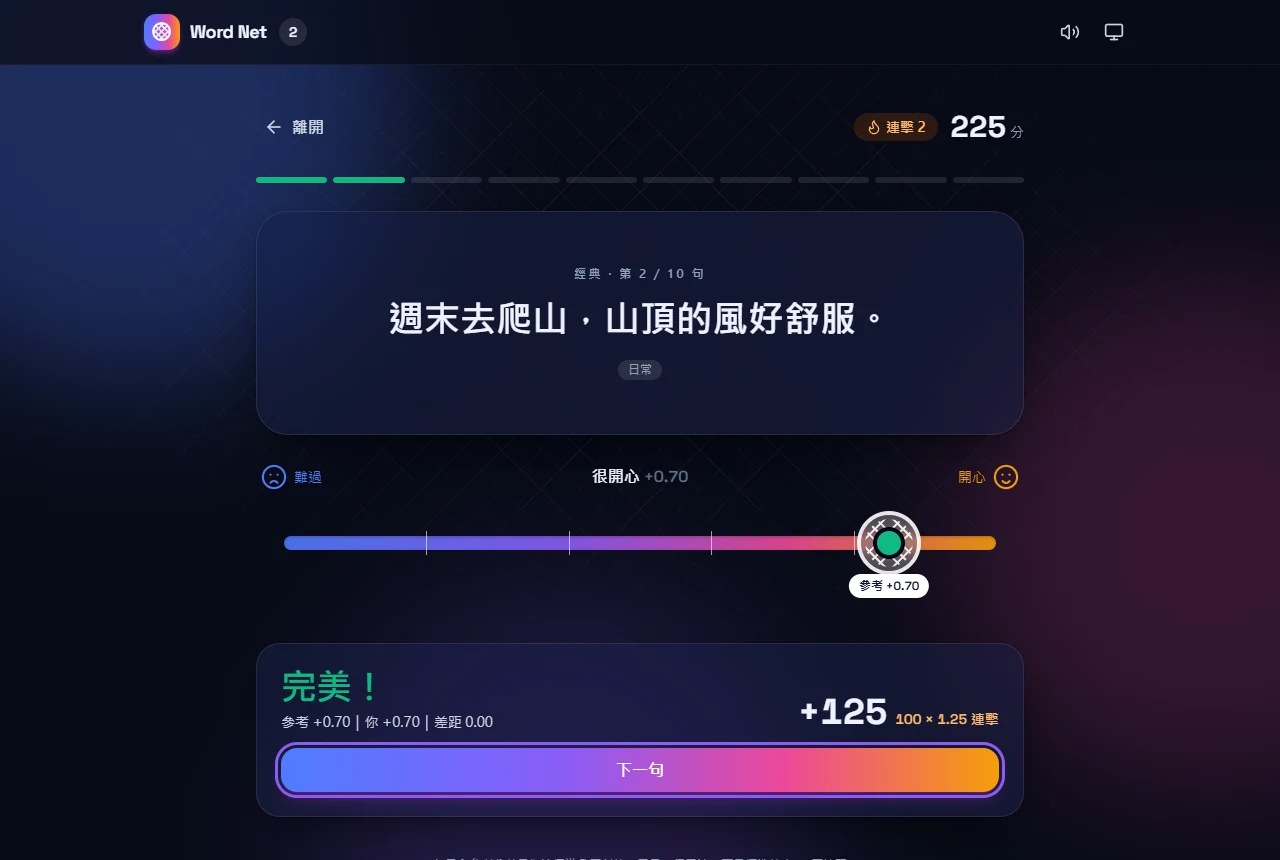
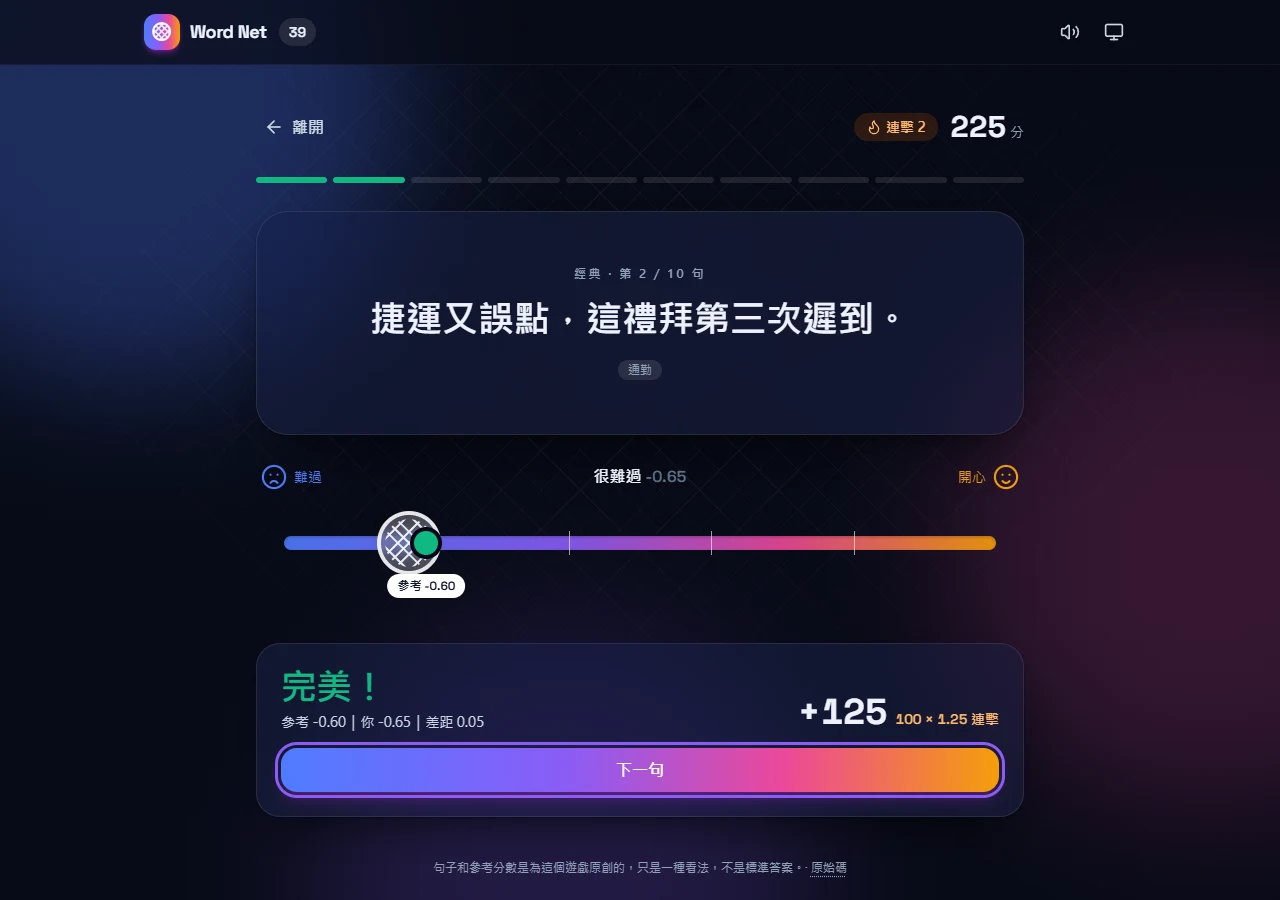
docs: refresh the README, cover and screenshots for the new game
The README now covers everything this branch added: the five ways to
play, the rank table, achievements, the result card with its emotion
map, the duo mode, the licenses, and the updated 2018 comparison
(the Google Form row now says it's gone).

New images, all of the real game in headless Edge: a 560 px GIF of the
reveal (1.3 MB; the background drift is paused while recording,
because it changes every pixel and made the first try 9 MB), fresh
desktop and phone screenshots in both themes, a duo reveal, and an
exported result card. The cover gains a row with the five modes.

diff --git a/docs/images/src/hero.html b/docs/images/src/hero.html
@@ -6,7 +6,8 @@
            --default-background-color=00000000 --virtual-time-budget=5000
            --screenshot=hero-dark.png "file:///…/hero.html#dark"
   Everything shown is from the game: the sentence and its reference score are twist-010 in
-  src/data/packs/twists.json, and +125 is a perfect guess (100) with a 2-in-a-row combo (×1.25).
+  src/data/packs/twists.json, +125 is a perfect guess (100) with a 2-in-a-row combo (×1.25), and
+  the chips are the five ways to play (MODE_INFO and the duo mode).
 -->
 <html lang="zh-Hant-TW">
 <head>
@@ -50,8 +51,10 @@
   .pill { position: absolute; right: 44px; top: 48px; font-family: Consolas, 'JetBrains Mono', monospace; font-size: 14px;
           padding: 8px 14px; border-radius: 12px; border: 1px solid var(--line); background: var(--card); box-shadow: var(--shadow); }
   .pill span { color: var(--muted); margin-right: 8px; }
+  .modes { position: absolute; left: 122px; top: 136px; display: flex; gap: 8px; font-family: 'Microsoft JhengHei', 'PingFang TC', sans-serif; }
+  .modes span { font-size: 13px; font-weight: 700; padding: 3px 11px; border-radius: 99px; border: 1px solid var(--line); background: var(--card); color: var(--muted); }
 
-  .card { position: absolute; top: 172px; height: 180px; padding: 18px 20px; border-radius: 20px; background: var(--card);
+  .card { position: absolute; top: 184px; height: 180px; padding: 18px 20px; border-radius: 20px; background: var(--card);
           border: 1px solid var(--line); box-shadow: var(--shadow); backdrop-filter: blur(12px);
           font-family: 'Microsoft JhengHei', 'PingFang TC', sans-serif; }
   .label { font-size: 12px; font-weight: 700; letter-spacing: .14em; color: var(--muted); }
@@ -101,10 +104,11 @@
   </header>
 
   <div class="pill"><span>$</span>npm run dev</div>
+  <div class="modes"><span>經典</span><span>限時</span><span>生存</span><span>每日挑戰</span><span>雙人對戰</span></div>
 
   <svg class="wires" width="960" height="400">
-    <path class="wire" d="M298 262 H334"/><path class="head" d="M340 262 l-9 -5 v10 z"/>
-    <path class="wire" d="M638 262 H674"/><path class="head" d="M680 262 l-9 -5 v10 z"/>
+    <path class="wire" d="M298 274 H334"/><path class="head" d="M340 274 l-9 -5 v10 z"/>
+    <path class="wire" d="M638 274 H674"/><path class="head" d="M680 274 l-9 -5 v10 z"/>
   </svg>
 
   <div class="card" id="sentence">

diff --git a/README.md b/README.md
@@ -1,7 +1,7 @@
 <p align="center">
   <picture>
     <source media="(prefers-color-scheme: dark)" srcset="https://raw.githubusercontent.com/NatLee/word-net-game/master/docs/images/hero-dark.png">
-    <img src="https://raw.githubusercontent.com/NatLee/word-net-game/master/docs/images/hero-light.png" alt="Word Net：讀一句話（例如「這部電影好看到我睡著了兩次。」），把網子撒在難過到開心的刻度上，揭曉參考分數 -0.50，猜 -0.45 拿到「完美！」+125 分（100 × 1.25 連擊）" width="960">
+    <img src="https://raw.githubusercontent.com/NatLee/word-net-game/master/docs/images/hero-light.png" alt="Word Net：讀一句話（例如「這部電影好看到我睡著了兩次。」），把網子撒在難過到開心的刻度上，揭曉參考分數 -0.50，猜 -0.45 拿到「完美！」+125 分（100 × 1.25 連擊）。五種玩法：經典、限時、生存、每日挑戰、雙人對戰" width="960">
   </picture>
 </p>
 
@@ -9,38 +9,44 @@
   <a href="https://github.com/NatLee/word-net-game/actions/workflows/deploy.yml"><img src="https://github.com/NatLee/word-net-game/actions/workflows/deploy.yml/badge.svg" alt="Deploy to GitHub Pages"></a>
   <a href="https://github.com/NatLee/word-net-game/actions/workflows/ci.yml"><img src="https://github.com/NatLee/word-net-game/actions/workflows/ci.yml/badge.svg" alt="CI"></a>
   <a href="https://natlee.github.io/word-net-game/"><img src="https://img.shields.io/badge/play-natlee.github.io%2Fword--net--game-8b5cf6" alt="Play on GitHub Pages"></a>
+  <a href="LICENSE"><img src="https://img.shields.io/badge/code-MIT-22c55e" alt="Code: MIT"></a>
+  <a href="src/data/packs/LICENSE"><img src="https://img.shields.io/badge/sentences-CC_BY_4.0-f59e0b" alt="Sentences: CC BY 4.0"></a>
   <img src="https://img.shields.io/badge/React-19-61dafb?logo=react&logoColor=white" alt="React 19">
   <img src="https://img.shields.io/badge/Tailwind_CSS-4-38bdf8?logo=tailwindcss&logoColor=white" alt="Tailwind CSS 4">
 </p>
 
-**Word Net** 是一個猜情緒的網頁小遊戲。畫面上出現一句話，你把網子拖到「難過 ↔ 開心」之間你覺得的位置，按下「撒網！」，參考分數就會落下來，越接近分數越高，連續猜準還有連擊加成。不用安裝，打開就能玩：**<https://natlee.github.io/word-net-game/>**
+**Word Net** 是一個猜情緒的網頁小遊戲。畫面上出現一句話，你把網子拖到「難過 ↔ 開心」之間你覺得的位置，按下「撒網！」，參考分數就會落下來，越接近分數越高，連續猜準還有連擊加成。有限時、生存、每日挑戰和雙人對戰，玩完拿到一張附「情緒地圖」的成績卡。不用安裝，打開就能玩：**<https://natlee.github.io/word-net-game/>**
 
-*A small mood-guessing game in Traditional Chinese: read a sentence, cast your net on the sad ↔ happy scale, and see how close you got to the reference score.*
+*A small mood-guessing game in Traditional Chinese: read a sentence, cast your net on the sad ↔ happy scale, and see how close you got to the reference score. Five modes, ranks, achievements, a shareable result card, and a two-player mode for one device.*
+
+<p align="center">
+  <img src="https://raw.githubusercontent.com/NatLee/word-net-game/master/docs/images/reveal.gif" alt="揭曉動畫：「我沒事，真的。」網子撒在 -0.45，網子落下、參考分數 -0.40 掉進網裡，畫面邊緣閃出綠光，「完美！」彈出，分數翻牌成 +125（100 × 1.25 連擊），下方出現說明「會特別強調『真的』，通常是有事。」" width="560">
+</p>
 
 <p align="center">
   <picture>
     <source media="(prefers-color-scheme: dark)" srcset="https://raw.githubusercontent.com/NatLee/word-net-game/master/docs/images/play-desktop-dark.webp">
-    <img src="https://raw.githubusercontent.com/NatLee/word-net-game/master/docs/images/play-desktop-light.webp" alt="桌面版遊戲畫面：經典模式第 2 句「週末去爬山，山頂的風好舒服。」，網子和參考分數都在 +0.70，顯示「完美！」+125（100 × 1.25 連擊），上方是連擊 2 和總分 225" width="820">
+    <img src="https://raw.githubusercontent.com/NatLee/word-net-game/master/docs/images/play-desktop-light.webp" alt="桌面版遊戲畫面：經典模式第 2 句「捷運又誤點，這禮拜第三次遲到。」，網子撒在 -0.65，參考分數 -0.60，顯示「完美！」+125（100 × 1.25 連擊），上方是連擊 2 和總分 225" width="820">
   </picture>
 </p>
 <p align="center">
   <picture>
     <source media="(prefers-color-scheme: dark)" srcset="https://raw.githubusercontent.com/NatLee/word-net-game/master/docs/images/mobile-dark.webp">
-    <img src="https://raw.githubusercontent.com/NatLee/word-net-game/master/docs/images/mobile-light.webp" alt="手機版的三個畫面：首頁（三種模式和累計句數）、拖動網子時（有點開心 +0.35）、揭曉後（完美！+125）" width="820">
+    <img src="https://raw.githubusercontent.com/NatLee/word-net-game/master/docs/images/mobile-light.webp" alt="手機版的三個畫面：首頁（段位和經驗值、題庫選擇、模式卡片）、拖動網子時、揭曉後（完美！+125）" width="820">
   </picture>
 </p>
 
 ## 怎麼玩
 
-1. 第一次來先取個名字，排行榜和送出的標註都會用這個名字。
-2. 在首頁選題庫（全部、日常短句、話中有話、職場、戀愛、網路用語），再選一種模式：
+1. 第一次來先取個名字，排行榜和成績卡會用這個名字。
+2. 在首頁選題庫（全部、日常短句、話中有話、職場、戀愛、網路用語），再選一種玩法：
    - **經典**：10 句，沒有時間限制。
    - **限時**：60 秒內答越多越好。揭曉答案時不計時，接著會自動換下一句。
    - **生存**：3 顆心。「失手」扣一顆，連擊每到第 5 句補一顆（最多 3 顆），心扣完就結束，看你能撐多久。
-   - **每日挑戰**：每天同一組 5 句，固定從全部題庫挑，大家拿到的題目一樣，一天只能玩一次。玩完可以複製文字成績分享給朋友。
-   - **雙人對戰**：兩個人用同一台裝置，輪流在同一句話上撒網。第一個人撒好，網子就會藏起來；第二個人撒完再一起揭曉。6 句之後分數高的人贏，同分再比贏的句數。
+   - **每日挑戰**：每天同一組 5 句，固定從全部題庫挑，大家拿到的題目一樣，一天只能玩一次。
+   - **雙人對戰**：兩個人用同一台裝置輪流撒網，見下方說明。
 3. 讀完句子，把網子拖到你覺得的位置。最左邊是 -1（很難過），中間是 0（普通），最右邊是 +1（很開心）。
-4. 按「撒網！」鎖定答案。參考分數會落在刻度上，畫面告訴你差多少、拿幾分。有些句子（反諷、話中有話）揭曉後會附一句說明。
+4. 按「撒網！」鎖定答案。網子落下、參考分數掉在刻度上，畫面告訴你差多少、拿幾分。反諷、網路用語這類句子，揭曉後會附一句說明。
 
 ### 計分
 
@@ -57,11 +63,58 @@
 
 ### 段位和成就
 
-- **經驗值和段位**：每句拿到的分數都算經驗值（XP）。累積到門檻就升一個段位，從「見習撒網人」一路到「心海傳說」，共 7 段。首頁和「我的檔案」看得到離下一段還差多少。
-- **成就**：14 個成就，例如第一次「完美」、一局連擊 10、在反諷句子猜準 5 次、連續 3 天完成每日挑戰、每個題庫都玩過。全部列在右上角的「我的檔案」，解鎖的會標上日期。
-- **通知**：解鎖成就、升段位、每累計判斷滿 100 句時，畫面上方會跳出小通知（升段位和滿 100 句還有彩帶）。通知不會擋住遊戲，限時模式的時間也不會因此吃虧。
+每句拿到的分數都算經驗值（XP），累積到門檻就升一個段位。首頁和右上角的「我的檔案」看得到離下一段還差多少。
 
-這些數字都寫在 [`src/config.ts`](src/config.ts)，改那個檔案就能調整規則，遊戲裡的說明和教學會跟著變。
+| 段位 | 需要的經驗值 |
+|---|---|
+| Lv.1 見習撒網人 | 0 |
+| Lv.2 捕語學徒 | 500 |
+| Lv.3 情緒漁夫 | 1,500 |
+| Lv.4 讀心漁師 | 3,500 |
+| Lv.5 共感船長 | 7,000 |
+| Lv.6 心海領航員 | 12,000 |
+| Lv.7 心海傳說 | 20,000 |
+
+另外有 14 個成就，例如第一次「完美」、一局連擊 10、在反諷句子猜準 5 次、參考分數兩個極端都拿過完美、連續 3 天完成每日挑戰、每個題庫都玩過、打完一場雙人對戰。全部列在「我的檔案」，解鎖的會標上日期。
+
+解鎖成就、升段位、每累計判斷滿 100 句時，畫面上方會跳出小通知（升段位和滿 100 句還有彩帶）。通知不會擋住遊戲，限時模式的時間也不會因此吃虧。
+
+這些數字都寫在 [`src/config.ts`](src/config.ts) 和 [`src/game/achievements.ts`](src/game/achievements.ts)，改那裡就能調整規則，遊戲裡的說明會跟著變。
+
+### 成績卡和情緒地圖
+
+<img src="https://raw.githubusercontent.com/NatLee/word-net-game/master/docs/images/result-card.webp" alt="成績卡：經典模式 1201 分、Lv.2 捕語學徒、每句的結果符號，中間是情緒地圖：10 個點大多落在斜線的完美帶上，兩個三角形（差一點）偏離斜線；下方是圖例和句數 10、平均差距 0.14、最高連擊 5、完美 6" width="320" align="right">
+
+一局結束會出現一張成績卡：分數、段位、每句的結果，以及一張「情緒地圖」。
+
+地圖的橫軸是參考分數，縱軸是你的答案，每句話是一個點。點落在斜線上，就是猜得一模一樣；斜線兩旁的色帶是「完美」和「很接近」的範圍。點在斜線上方表示你猜得比較開心，在下方表示猜得比較難過。每個點用和分享文字一樣的符號（◎ ○ △ ×）畫，看不出顏色也分得出來。
+
+按「存成圖片」會下載一張 1080 × 1350 的 PNG；手機上還有「分享圖片」，可以直接傳到聊天軟體。
+
+也可以「複製成績」貼成文字。分享的文字只有每句的結果符號，不會洩漏答案：
+
+```text
+Word Net 每日挑戰 2026-11-04
+412 分（5 句）
+◎◎○△×
+最高連擊 3｜平均差距 0.18
+https://natlee.github.io/word-net-game/
+```
+
+<br clear="right">
+
+### 雙人對戰
+
+兩個人用同一台裝置，在同一句話上輪流撒網。第一個人撒好，網子就會藏起來，第二個人從中間開始撒；兩個人都撒完，兩張網子和參考分數一起揭曉。每句分數高的人贏那一句，6 句之後總分高的人贏，同分再比贏的句數。
+
+<p align="center">
+  <picture>
+    <source media="(prefers-color-scheme: dark)" srcset="https://raw.githubusercontent.com/NatLee/word-net-game/master/docs/images/duo-desktop-dark.webp">
+    <img src="https://raw.githubusercontent.com/NatLee/word-net-game/master/docs/images/duo-desktop-light.webp" alt="雙人對戰的揭曉畫面：「今天的下午茶是部門經理請的。」參考分數 +0.55，小明的網子在 +0.60（完美 +100），阿華的網子在 +0.20（差一點 +65），顯示「這句 小明 贏！」" width="720">
+  </picture>
+</p>
+
+第一個玩家是這台裝置的主人，他的答案會算進累計句數、經驗值和成就。第二個玩家的答案只算進排行榜的「標註數」。
 
 ### 鍵盤和無障礙
 
@@ -75,34 +128,16 @@
 | Esc | 關掉對話框 |
 
 - 每一句開始時，焦點會自動放在網子上；揭曉後移到「下一句」，全程不用滑鼠。
-- 網子是標準的滑桿元件（`role="slider"`），螢幕閱讀器會念出目前的位置，例如「有點開心（+0.35）」，揭曉結果也會念出來。
-- 系統開了「減少動態」時，所有動畫、計分跳動和彩帶都會關掉。
+- 網子是標準的滑桿元件（`role="slider"`），螢幕閱讀器會念出目前的位置，例如「有點開心（+0.35）」，揭曉結果和通知也會念出來。
+- 系統開了「減少動態」時，所有動畫、計分跳動、粒子和彩帶都會關掉。
 - 深色、淺色可以跟著系統，也可以在右上角切換。
 - 手機上用手指拖或點刻度都可以，拖動時頁面不會跟著捲動。
-
-### 成績卡和情緒地圖
-
-一局結束會出現一張成績卡：分數、段位、每句的結果，以及一張「情緒地圖」。地圖的橫軸是參考分數，縱軸是你的答案，每句話是一個點。點落在斜線上就是猜得一模一樣，斜線兩旁的色帶是「完美」和「很接近」的範圍；點在斜線上方表示你猜得比較開心，在下方表示猜得比較難過。每個點用和分享文字一樣的符號（◎ ○ △ ×）畫，看不出顏色也分得出來。
-
-按「存成圖片」會下載一張 1080 × 1350 的 PNG；手機上還有「分享圖片」，可以直接傳到聊天軟體。
-
-### 分享成績
-
-也可以「複製成績」貼成文字；瀏覽器有系統分享功能時（大多數手機都有），還會多一個「分享」按鈕。分享的文字只有每句的結果符號，不會洩漏答案：
-
-```text
-Word Net 每日挑戰 2026-11-04
-412 分（5 句）
-◎◎○△×
-最高連擊 3｜平均差距 0.18
-https://natlee.github.io/word-net-game/
-```
 
 ## 遊戲流程
 
 ```mermaid
 flowchart TD
-  start([第一次來：取個名字]) --> pick{選模式}
+  start([第一次來：取個名字]) --> pick{選題庫和玩法}
   pick -->|經典：10 句| read
   pick -->|限時：60 秒| read
   pick -->|生存：3 顆心| read
@@ -110,7 +145,7 @@ flowchart TD
   pick -->|雙人對戰：輪流撒網、一起揭曉| read
   read[讀一句話] --> cast[把網子拖到你覺得的位置<br/>-1 很難過 … +1 很開心]
   cast -->|撒網！或 Enter| reveal[揭曉參考分數<br/>依差距給分<br/>連續猜準有連擊]
-  reveal --> record[(記下這句標註<br/>累計句數 +1)]
+  reveal --> record[(記下這句的答案<br/>累計句數和經驗值)]
   record -.->|每滿 100 句、升段位、解鎖成就| party[通知和彩帶]
   reveal -->|還有下一句| read
   reveal -->|最後一句、時間到或心扣完| summary[成績卡：分數、段位、情緒地圖<br/>存成圖片或分享文字]
@@ -119,7 +154,7 @@ flowchart TD
 
 ## 你的資料存在哪裡
 
-名字、每一句的答案、排行榜、每日挑戰紀錄和設定，都只存在你的瀏覽器裡（localStorage），遊戲不會把任何東西傳到別的地方。清除這個網站的資料就會消失，排行榜也只是這台裝置上的排行。
+名字、每一句的答案、經驗值、成就、排行榜、每日挑戰紀錄和設定，都只存在你的瀏覽器裡（localStorage），遊戲不會把任何東西傳到別的地方。清除這個網站的資料就會消失，排行榜也只是這台裝置上的排行。
 
 ## 在本機跑
 
@@ -128,7 +163,7 @@ flowchart TD
 ```bash
 npm ci
 npm run dev        # 開發伺服器，網址會印在終端機上（預設 http://localhost:5173/）
-npm test           # Vitest：計分、題庫檢查、遊戲流程和主要畫面
+npm test           # Vitest：計分、題庫檢查、成就、遊戲流程和主要畫面
 npm run lint       # ESLint
 npm run build      # 型別檢查 + 正式版，輸出到 dist/
 npm run preview    # 在本機看 dist/ 的正式版
@@ -171,7 +206,7 @@ push 到 `master` 時，deploy workflow 會跑 lint、測試、build，再部署
 | `sentences[].id` | 小寫英文、數字和 `-`，**所有題庫加起來**不能重複。紀錄和每日挑戰靠它認句子，發佈後不要改 |
 | `sentences[].text` | 1–60 個字 |
 | `sentences[].score` | 參考分數，-1 到 1，兩位小數 |
-| `sentences[].tags` | 顯示在句子下方的小標籤，可以是空陣列 |
+| `sentences[].tags` | 顯示在句子下方的小標籤，可以是空陣列。「反諷雷達」成就看的是 `反諷` 這個標籤 |
 | `sentences[].note` | 選填，揭曉後顯示的說明，適合反諷或容易猜錯的句子 |
 
 改完跑 `npm test`。格式有錯時，測試會列出每個問題和位置，例如：
@@ -194,7 +229,7 @@ Error: Sentence packs are invalid:
 
 這個遊戲 2018 年的名字是 WordNet，是一個收集「句子情緒標註」的網頁：畫面顯示一句話，玩家用滑桿在難過和開心之間打分數，按送出後把名字、句子和分數寫進 Google 表單；排行榜則讀 Google 試算表，看誰標得最多。
 
-到 2026 年，它已經不能用了：句子來自 Heroku 上的小服務，那個 app 已經不存在；排行榜用的 Google 試算表舊 API 在 2021 年關閉。這次用 React、Tailwind 和 Vite 重做，原本的功能都留著：
+到 2026 年，它已經不能用了：句子來自 Heroku 上的小服務，那個 app 已經不存在；排行榜用的 Google 試算表舊 API 在 2021 年關閉。這次用 React、Tailwind 和 Vite 重做成可以計分的遊戲。作者也不再收集標註資料，所以送到 Google 表單的部分拿掉了，其他功能都還在：
 
 | 2018 年 | 現在 |
 |---|---|
@@ -202,7 +237,7 @@ Error: Sentence packs are invalid:
 | 滑桿 -1 到 1，兩端是難過和開心的臉 | 一樣的刻度和兩張臉，滑桿換成可以拖、點、用鍵盤操作的網子 |
 | 輸入名字，存在瀏覽器裡 | 一樣，第一次來會先問名字，可以在設定裡改 |
 | 畫面上方的累計次數、每 100 次恭喜 | 一樣，次數顯示在右上角，每滿 100 句跳出恭喜通知和彩帶 |
-| 「你確定嗎？」後送到 Google 表單 | 拿掉了：作者已經不再收集標註資料，答案只留在你的瀏覽器裡 |
+| 「你確定嗎？」後送到 Google 表單 | 拿掉了，答案只留在你的瀏覽器裡 |
 | 3 步驟 gif 教學 | 3 步驟互動教學，最後一樣是「做得好！我們可以開始了！」 |
 | 線上排行榜（每個名字標過幾句） | 這台裝置的排行榜：各模式最高分，加上「標註數」（每個名字標過幾句） |
 
@@ -219,10 +254,10 @@ Error: Sentence packs are invalid:
 
 ```text
 src/
-  config.ts          遊戲規則：計分、模式、時間、里程碑
-  data/packs/        題庫（JSON），validate.ts 負責檢查
-  game/              純邏輯：計分、發牌、一局的狀態、分享文字
-  lib/               瀏覽器相關：儲存、排行榜、音效、深淺色
+  config.ts          遊戲規則：計分、模式、生命、段位、時間、里程碑
+  data/packs/        題庫（JSON）和它們的 CC BY 4.0 授權；validate.ts 負責檢查
+  game/              純邏輯：計分、發牌、單人一局、雙人對戰、段位、成就、成績卡的座標、分享文字
+  lib/               瀏覽器相關：儲存、排行榜、成績卡存圖、音效、深淺色
   hooks/  components/  App.tsx   畫面
 docs/images/         README 的圖；src/hero.html 是封面圖的原始檔
 docs/2018/           2018 年原版的教學 gif
